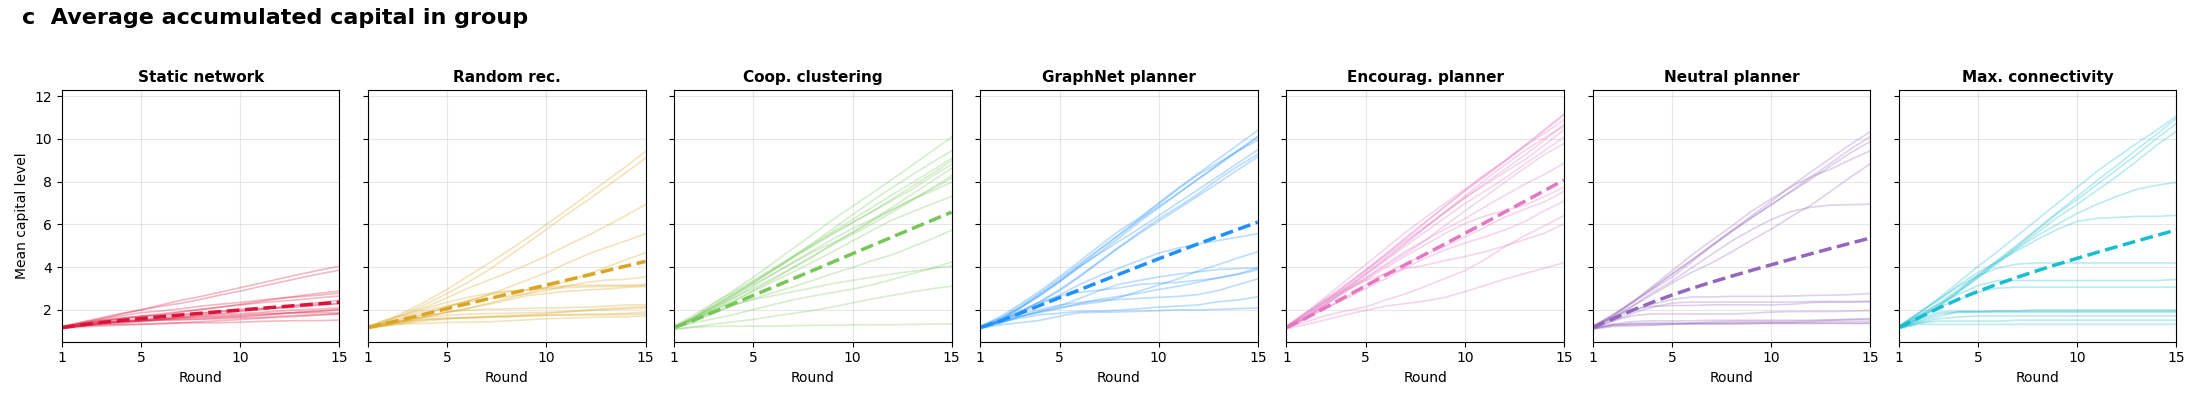
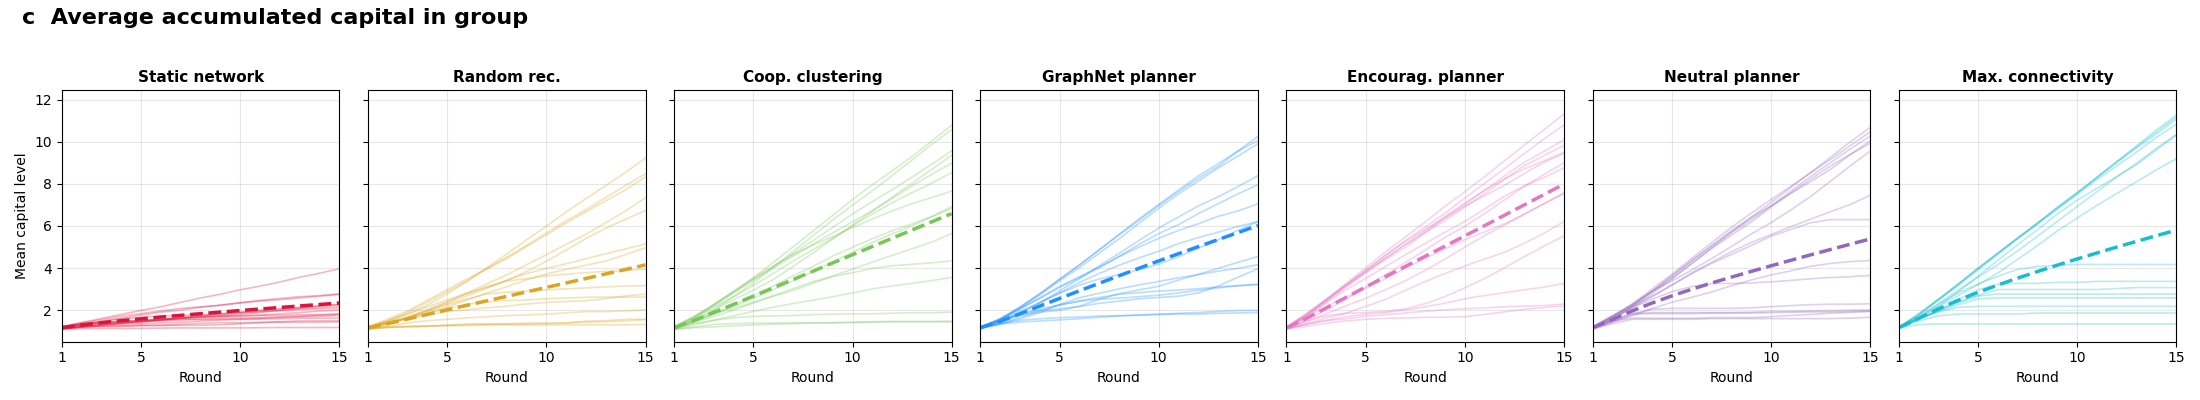
2026/03/05

diff --git a/training/trainer.py b/training/trainer.py
@@ -8,126 +8,81 @@ from training.a2c import compute_a2c_loss
 from config import TrainConfig, GameConfig
 
 class Trainer:
-    def __init__(self):
-        # 1. 设置计算设备
+    def __init__(self, agent_id=0, seed=42):
+        # 1. 设置设备和种子
+        self.agent_id = agent_id
         self.device = torch.device(TrainConfig.DEVICE if torch.cuda.is_available() else "cpu")
         
-        # 2. 初始化 Agent 和 优化器
-        # 模型的参数会被自动移动到指定设备
+        # 2. 每个副本拥有独立的保存目录
+        self.ckpt_dir = f"checkpoints/replicate_{agent_id}"
+        os.makedirs(self.ckpt_dir, exist_ok=True)
+
+        # 3. 初始化 Agent
+        # 这里 seed 的设置确保了每个进程的初始参数不同
+        torch.manual_seed(seed)
         self.agent = SocialPlannerAgent().to(self.device)
         self.optimizer = optim.Adam(self.agent.parameters(), lr=TrainConfig.LR)
         
-        # 3. 初始化游戏环境
+        # 4. 初始化环境
         self.env = PublicGoodsGame(TrainConfig.BATCH_SIZE, self.device)
         
-        # 4. 创建保存目录
-        self.ckpt_dir = "checkpoints"
-        os.makedirs(self.ckpt_dir, exist_ok=True)
-        
-        # 5. 预计算上三角掩码 (Upper Triangle Mask)
-        # 用于在计算 Loss 时屏蔽掉对角线(自环)和下三角(重复边)
-        # Shape: (N, N) -> 对角线及以下为0，上三角为1
+        # 5. 预计算掩码
         self.triu_mask = torch.triu(
             torch.ones(GameConfig.N_PLAYERS, GameConfig.N_PLAYERS, device=self.device), 
             diagonal=1
         )
-        # 计算有效边的总数 (N*(N-1)/2)，用于 Entropy 的归一化
         self.num_valid_edges = self.triu_mask.sum()
 
     def save_checkpoint(self, episode, is_final=False):
-        """保存模型参数到文件"""
         filename = "final_model.pth" if is_final else f"ckpt_ep_{episode}.pth"
         path = os.path.join(self.ckpt_dir, filename)
         torch.save(self.agent.state_dict(), path)
-        # print(f"Model saved to {path}") # 可选：减少打印刷屏
 
     def train(self):
-        print(f"Start Training on {self.device}...")
+        # 计算总局数：5e7 总轮次 / 14 次Agent决策每局 (15轮游戏包含1轮初始和14轮Agent干预)
+        # 论文原文：5 x 10^7 simulated game rounds
+        rounds_per_episode = GameConfig.EPISODE_LENGTH - 1
+        max_episodes = int(5e7 // rounds_per_episode)
         
-        for episode in range(1, TrainConfig.MAX_EPISODES + 1):
-            # --- 1. 轨迹收集初始化 ---
-            # reset() 内部已经运行了 Round 1 的博弈
-            # 返回的是 Round 1 结束后的状态 (Capital, Prev_Decisions, Adj)
+        print(f"Replicate {self.agent_id} starting training on {self.device} for {max_episodes} episodes...")
+        
+        for episode in range(1, max_episodes + 1):
             capital, prev_decisions, adj = self.env.reset()
+            ep_log_probs, ep_values, ep_rewards, ep_entropies = [], [], [], []
             
-            # 用于存储本局游戏的轨迹数据
-            ep_log_probs = []
-            ep_values = []
-            ep_rewards = []
-            ep_entropies = []
-            
-            # --- 2. 回合循环 (Round 2 to 15) ---
-            # reset 消耗了 Round 0 (即第1轮)。
-            # 剩下的 14 轮 (GameConfig.EPISODE_LENGTH - 1) 由 Agent 介入。
-            for t in range(GameConfig.EPISODE_LENGTH - 1):
-                
-                # A. Agent 决策
-                # 传入 t+1 作为时间步 (代表当前是第2, 3...轮)
+            for t in range(rounds_per_episode):
                 edge_logits, value_est = self.agent(capital, prev_decisions, adj, t + 1)
-                
-                # B. 环境交互
-                # dist: 伯努利分布对象，包含梯度信息
-                # actions_change: 实际采样的动作 (0/1)
-                # reward: Agent 的即时奖励
                 next_state, reward, dist, actions_change = self.env.step(edge_logits)
-                
-                # 更新状态用于下一次循环
                 (capital, prev_decisions, adj) = next_state
                 
-                # C. 提取有效的 Log Prob 和 Entropy (关键步骤)
-                # 我们的图是无向图，且无自环。
-                # 神经网络虽然输出了 N*N 个 Logits，但只有上三角部分是有效的动作。
-                # 下三角只是重复信息或噪声，必须在计算梯度前屏蔽掉。
-                
-                # 1. 计算原始 Log Prob 和 Entropy (Shape: B, N, N)
+                # 损失计算
                 raw_log_probs = dist.log_prob(actions_change)
                 raw_entropy = dist.entropy()
-                
-                # 2. 扩展掩码以匹配 Batch 维度 (Shape: 1, N, N)
                 mask_expanded = self.triu_mask.unsqueeze(0)
                 
-                # 3. 计算联合动作的 Log Prob (Joint Log Probability)
-                # P(Action) = P(edge_1) * P(edge_2) ... * P(edge_m)
-                # Log P(Action) = Sum(Log P(edge_i))
-                # 只对掩码为 1 的部分求和
-                joint_log_prob = (raw_log_probs * mask_expanded).sum(dim=(1, 2)) # Shape: (B,)
+                joint_log_prob = (raw_log_probs * mask_expanded).sum(dim=(1, 2))
+                avg_entropy = (raw_entropy * mask_expanded).sum(dim=(1, 2)) / self.num_valid_edges
                 
-                # 4. 计算平均 Entropy
-                # 同样只计算有效边的 Entropy，并取平均值作为正则化项
-                avg_entropy = (raw_entropy * mask_expanded).sum(dim=(1, 2)) / self.num_valid_edges # Shape: (B,)
-                
-                # 5. 存储数据
                 ep_log_probs.append(joint_log_prob)
                 ep_values.append(value_est)
                 ep_rewards.append(reward)
                 ep_entropies.append(avg_entropy)
             
-            # --- 3. A2C 更新 (Update Step) ---
-            # 一局游戏结束，利用收集的轨迹计算 Loss
-            loss, p_loss, v_loss, e_loss = compute_a2c_loss(
-                ep_log_probs, ep_values, ep_rewards, ep_entropies
-            )
-            
+            # A2C 更新
+            loss, p_loss, v_loss, e_loss = compute_a2c_loss(ep_log_probs, ep_values, ep_rewards, ep_entropies)
             self.optimizer.zero_grad()
             loss.backward()
-            
-            # 梯度裁剪：防止梯度爆炸，保持训练稳定
             torch.nn.utils.clip_grad_norm_(self.agent.parameters(), 1.0)
-            
             self.optimizer.step()
             
-            # --- 4. 日志与保存 ---
+            # 日志：仅副本 0 频繁打印，其他副本减少打印以防控制台混乱
             if episode % TrainConfig.LOG_INTERVAL == 0:
-                # 计算平均奖励和合作率用于展示
-                avg_reward = torch.stack(ep_rewards).sum(dim=0).mean().item()
-                avg_coop = prev_decisions.float().mean().item()
-                
-                print(f"Ep {episode:4d} | Reward: {avg_reward:6.2f} | Coop Rate: {avg_coop:6.2%} | Loss: {loss.item():6.3f} (P:{p_loss:5.2f} V:{v_loss:5.2f} E:{e_loss:5.2f})")
-                
-                # 定期保存 (例如每 500 轮)
-                if episode % 10000 == 0:
-                    self.save_checkpoint(episode)
+                if self.agent_id == 0 or episode % 1000 == 0:
+                    avg_coop = prev_decisions.float().mean().item()
+                    print(f"[Rep {self.agent_id}] Ep {episode} | Coop: {avg_coop:.1%} | Loss: {loss.item():.3f}")
+            
+            # 定期保存
+            if episode % 50000 == 0:
+                self.save_checkpoint(episode)
 
-        # 训练结束保存最终模型
         self.save_checkpoint(episode, is_final=True)
-        print("Training completed.")

diff --git a/train.py b/train.py
@@ -1,118 +1,52 @@
 # train.py
 import argparse
-import time
 import random
 import numpy as np
 import torch
-import sys
-import os
-
-# 导入配置和训练器
+import multiprocessing as mp
 from config import TrainConfig
 from training.trainer import Trainer
 
-def set_seed(seed):
-    """
-    设置全局随机种子，确保实验的可复现性。
-    包括 Python random, NumPy, 和 PyTorch (CPU & GPU)。
-    """
+def run_replicate(agent_id, base_seed):
+    """单副本训练进程函数"""
+    # 为每个进程设置唯一的种子
+    seed = base_seed + agent_id
+    
+    # 重新初始化种子（在多进程环境下非常重要）
     random.seed(seed)
     np.random.seed(seed)
     torch.manual_seed(seed)
-    if torch.cuda.is_available():
-        torch.cuda.manual_seed(seed)
-        torch.cuda.manual_seed_all(seed)
-        # 为了保证绝对的一致性，禁用 CUDNN 的 benchmark 模式
-        torch.backends.cudnn.deterministic = True
-        torch.backends.cudnn.benchmark = False
-    print(f"[Info] Random Seed set to: {seed}")
-
-def parse_args():
-    """解析命令行参数"""
-    parser = argparse.ArgumentParser(description="Deep RL for Scaffolding Cooperation")
     
-    # 基础参数
-    parser.add_argument("--seed", type=int, default=42, 
-                        help="Random seed for initialization (default: 42)")
-    parser.add_argument("--device", type=str, default=None, 
-                        help="Compute device to use (cpu or cuda)")
-    
-    # 训练参数覆盖 (覆盖 config.py 中的默认值)
-    parser.add_argument("--episodes", type=int, default=None, 
-                        help="Override total number of training episodes")
-    parser.add_argument("--batch_size", type=int, default=None,
-                        help="Override batch size")
-    parser.add_argument("--lr", type=float, default=None, 
-                        help="Override learning rate")
-    
-    return parser.parse_args()
-
-def main():
-    # 1. 解析参数
-    args = parse_args()
-
-    # 2. 应用配置
-    set_seed(args.seed)
-    
-    if args.device:
-        TrainConfig.DEVICE = args.device
-    
-    if args.episodes:
-        TrainConfig.MAX_EPISODES = args.episodes
-        
-    if args.batch_size:
-        TrainConfig.BATCH_SIZE = args.batch_size
-        
-    if args.lr:
-        TrainConfig.LR = args.lr
-
-    # 3. 打印实验环境信息
-    print("\n" + "="*50)
-    print(f"   AI Social Planner - Scaffolding Cooperation")
-    print("="*50)
-    print(f"Device       : {TrainConfig.DEVICE}")
-    print(f"Seed         : {args.seed}")
-    print(f"Max Episodes : {TrainConfig.MAX_EPISODES}")
-    print(f"Batch Size   : {TrainConfig.BATCH_SIZE}")
-    print(f"Learning Rate: {TrainConfig.LR}")
-    print("-" * 50)
-
-    # 4. 初始化训练器
-    try:
-        trainer = Trainer()
-    except Exception as e:
-        print(f"\n[Error] Failed to initialize Trainer: {e}")
-        import traceback
-        traceback.print_exc()
-        return
-
-    # 5. 开始训练
-    start_time = time.time()
-    print(f"Training started at {time.strftime('%X')}...")
-    print("-" * 50)
-
+    # 初始化训练器并开始
+    trainer = Trainer(agent_id=agent_id, seed=seed)
     try:
         trainer.train()
-    except KeyboardInterrupt:
-        print("\n\n[Warning] Training interrupted by user (Ctrl+C).")
-        # 这里可以选择保存紧急 Checkpoint，但 Trainer 已经有定期保存机制
     except Exception as e:
-        print(f"\n[Error] An error occurred during training: {e}")
-        import traceback
-        traceback.print_exc()
-    finally:
-        # 6. 结束统计
-        end_time = time.time()
-        duration = end_time - start_time
-        hours = int(duration // 3600)
-        minutes = int((duration % 3600) // 60)
-        seconds = int(duration % 60)
-        
-        print("="*50)
-        print(f"Training Process Finished.")
-        print(f"Total Time: {hours}h {minutes}m {seconds}s")
-        print(f"Checkpoints location: ./checkpoints/")
-        print("="*50)
+        print(f"Error in replicate {agent_id}: {e}")
+
+def main():
+    parser = argparse.ArgumentParser()
+    parser.add_argument("--seed", type=int, default=42)
+    parser.add_argument("--replicates", type=int, default=30, help="要训练的独立副本数量")
+    parser.add_argument("--parallel", type=int, default=1, help="同时并行的任务数(取决于你的GPU/显存)")
+    args = parser.parse_args()
+
+    print(f"Preparing to train {args.replicates} replicates...")
+
+    # 如果 parallel=1, 则顺序执行；如果 >1, 使用进程池
+    if args.parallel > 1:
+        # 使用多进程池并行执行
+        # 注意：如果你的 Agent 运行在 GPU 上，设置 parallel 过高会导致 OOM (显存溢出)
+        # 建议 parallel 数 = 显存 / (单个Agent占用显存)
+        ctx = mp.get_context('spawn') # GPU 任务推荐使用 spawn
+        with ctx.Pool(args.parallel) as pool:
+            pool.starmap(run_replicate, [(i, args.seed) for i in range(args.replicates)])
+    else:
+        # 顺序执行（适合显存不足的情况）
+        for i in range(args.replicates):
+            run_replicate(i, args.seed)
 
 if __name__ == "__main__":
+    # 设置多进程启动方法
+    mp.set_start_method('spawn', force=True)
     main()

diff --git a/config.py b/config.py
@@ -55,6 +55,6 @@ class TrainConfig:
     GAMMA = 0.99
     ENTROPY_COEF = 0.004
     VALUE_LOSS_COEF = 0.5
-    MAX_EPISODES = 500000 
+    MAX_EPISODES = 400000 
     LOG_INTERVAL = 10
     DEVICE = "cuda"
